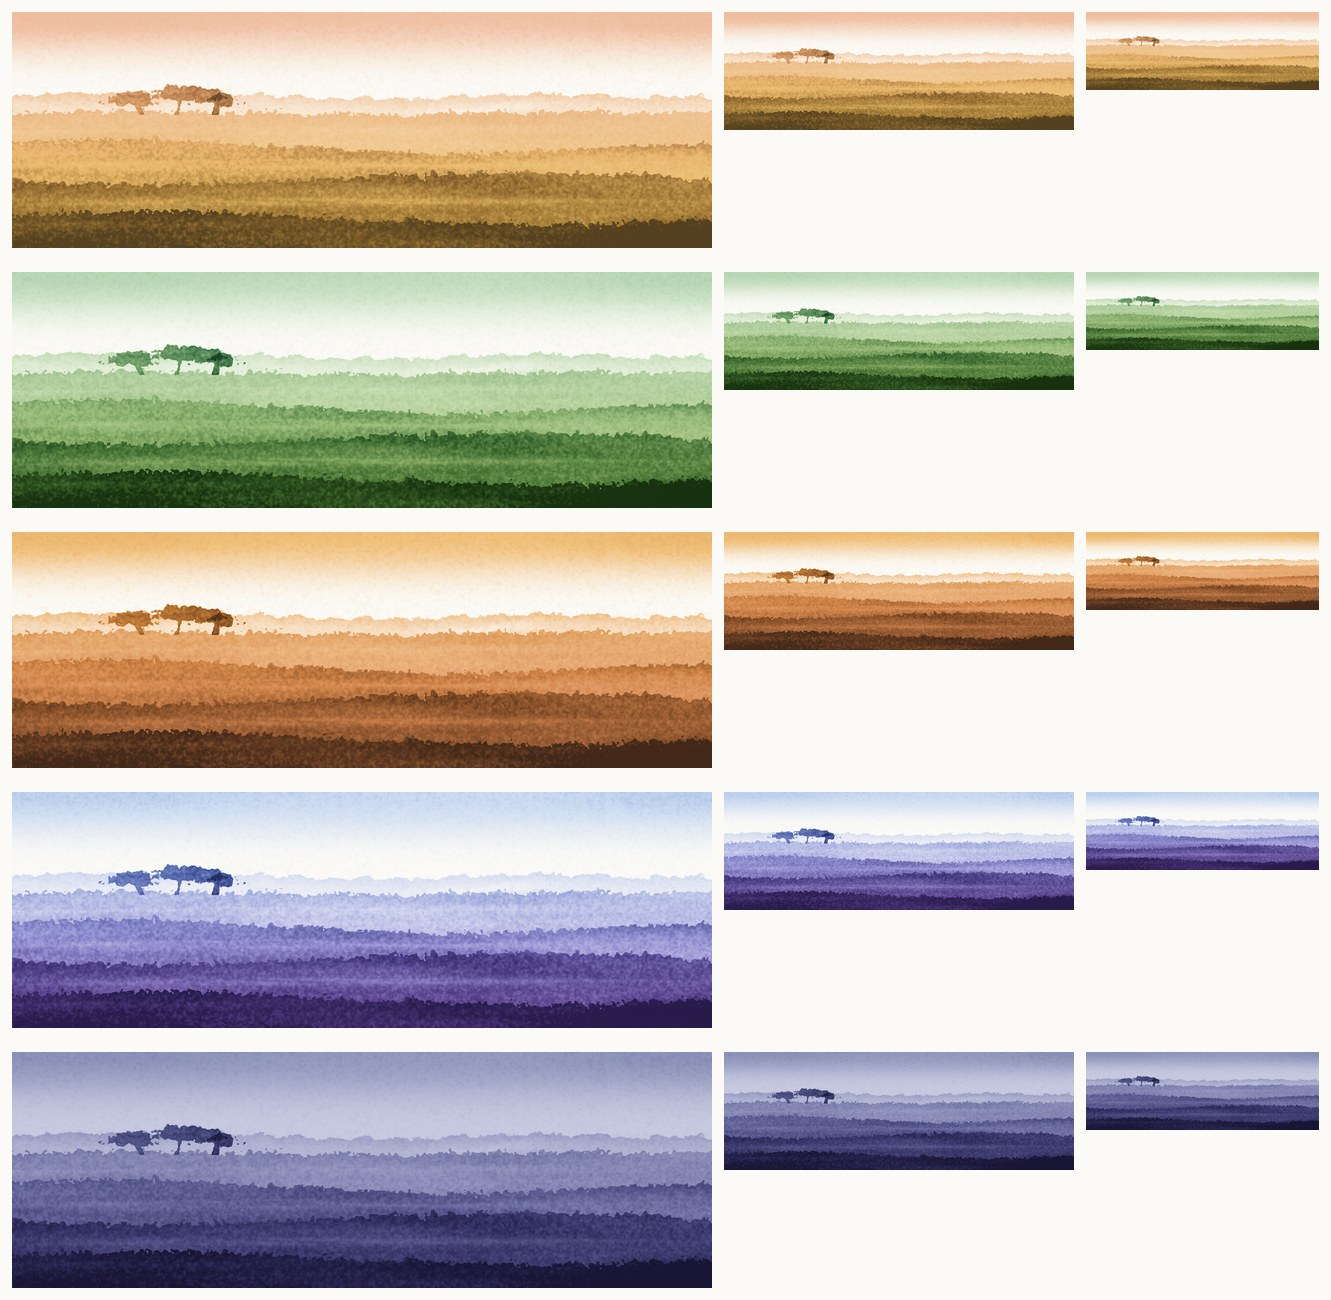
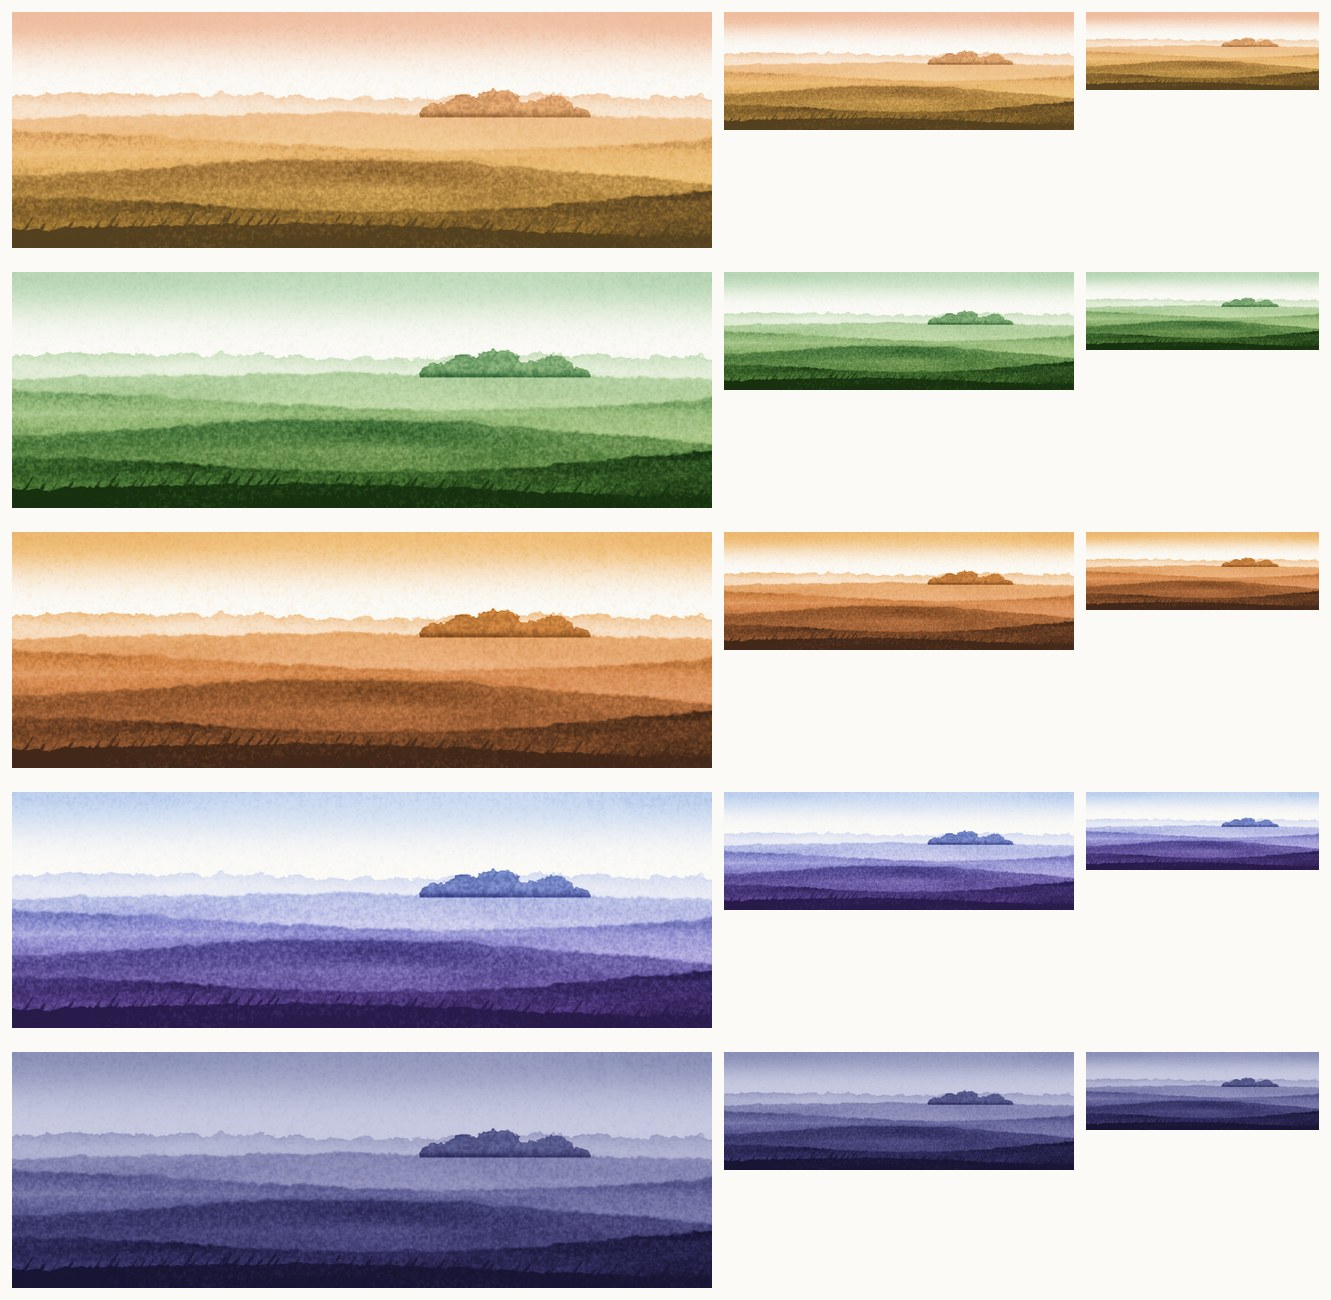
Meadow C repainted: crossing swells, blades on the near crest, a seated stand of trees
Claude-Session: https://claude.ai/code/session_012NdevCAvT4U8qS7nMJ64YM

diff --git a/tools/scenes/meadow.py b/tools/scenes/meadow.py
@@ -87,22 +87,70 @@ def variant_b() -> np.ndarray:
     return p.finish()
 
 
+def seg_field(x0, y0, x1, y1, w0, w1):
+    """Signed field in pixels for one tapered stroke from (x0, y0) to (x1, y1), normalised ends, widths in pixels."""
+    ax, ay, bx, by = x0 * W, y0 * H, x1 * W, y1 * H
+    dx, dy = bx - ax, by - ay; L2 = dx * dx + dy * dy
+    t = np.clip(((XX - ax) * dx + (YP - ay) * dy) / L2, 0, 1)
+    d = np.hypot(XX - (ax + t * dx), YP - (ay + t * dy))
+    return (w0 + (w1 - w0) * t) - d
+
+
+def copse(p, cx, base, width, height, density, seed):
+    """One stand of trees as a single low mass of uneven domes, wider than tall, seated on the ground.
+
+    No trunks show. A rounded mass on legs reads as an animal, which invariant 7 rules out.
+    """
+    f = np.full((H, W), -99.0)
+    for dx, top, rx in [(-0.44, 0.50, 0.16), (-0.27, 0.78, 0.20), (-0.04, 1.00, 0.24), (0.20, 0.70, 0.19), (0.36, 0.86, 0.17), (0.50, 0.42, 0.13)]:
+        ex, ey = (cx + dx * width) * W, base * H
+        rxp, ryp = rx * width * W, top * height * H
+        f = np.maximum(f, (1.0 - np.sqrt(((XX - ex) / rxp) ** 2 + ((YP - ey) / ryp) ** 2)) * min(rxp, ryp))
+    m = p.ragged(f, edge=1.6, rough=3.0, fine=2.5, tooth=1.4, seed=seed) * (f > -6) * smoothstep(base + 0.004, base - 0.004, YN)
+    p.wash(m, density, rim=0.22, rim_w=3, gran=0.075, flow=0.2, seed=seed + 5)
+    p.wash(m * smoothstep(base - height * 0.45, base, YN), 0.30, rim=0, gran=0.06, flow=0.2, seed=seed + 6)   # darker toward the ground
+
+
+def swell(p, pts, density, seed, fade, soft):
+    """A swell of grass whose upper edge melts into the wash behind it. soft is the edge softness in pixels."""
+    prof = p.profile(pts, wobble=0.002, wobble_sigma=14, seed=seed)
+    m = p.ragged(p.below(prof), edge=soft, rough=1.6, fine=1.6, tooth=0.9, seed=seed + 1)
+    d = density - fade[0] * smoothstep(fade[1], fade[2], YN)
+    p.wash(m, d, rim=0.0, gran=0.085, flow=0.26, flow_sigma=30, flow_aspect=6.0, seed=seed + 2)
+    return prof
+
+
+def blades(p, prof, n, seed, density=0.78):
+    """Short tapered blades of grass along one crest, all leaning at 56 degrees, uneven in length and spacing."""
+    rng = np.random.default_rng(seed); ang = np.radians(56.0)
+    f = np.full((H, W), -99.0)
+    for i in range(n):
+        x = (i + rng.random()) / n
+        if rng.random() < 0.22: continue                                   # gaps, so the crest is not a comb
+        px = int(np.clip(x * W, 0, W - 1)); y = prof[px] / H + 0.006
+        ln = (0.030 + 0.045 * rng.random()) * H
+        x1, y1 = x + ln * np.cos(ang) / W, y - ln * np.sin(ang) / H
+        f = np.maximum(f, seg_field(x, y, x1, y1, 0.0024 * W * (0.7 + 0.6 * rng.random()), 0.3))
+    m = p.ragged(f, edge=0.9, rough=1.0, fine=1.0, seed=seed + 1) * (f > -3)
+    p.wash(m, density, rim=0.0, gran=0.06, flow=0.1, seed=seed + 2)
+
+
 def variant_c() -> np.ndarray:
-    """Tall grass. A high horizon. The viewer stands in the meadow: swells of grass fill the card, with a small copse far off."""
+    """Tall grass. A high horizon. The viewer stands in the meadow: long swells of grass cross each other, with one copse far off."""
     p = Painting(paper_seed=29)
     above = np.ones_like(YN)
     sky(p, above, top=0.24, reach=0.34, seed=811)
     ridge(p, [(-0.05, .36), (.2, .345), (.45, .37), (.7, .35), (1.05, .365)], 0.18, above, 821, edge=2.4, fade=(0.08, 0.34, 0.44))
     haze(p, 0.405, 0.015, 0.026, 0.5, 826)
-    grass(p, [(-0.05, .43), (.25, .42), (.5, .435), (.78, .425), (1.05, .43)], 0.28, 831, fade=(0.08, 0.43, 0.56))
-    for i, (x, h, s) in enumerate([(.185, .085, .030), (.235, .115, .040), (.290, .075, .026)]):
-        crown_tree(p, x, 0.432, h, s, 0.56, 840 + 9 * i)
-    grass(p, [(-0.05, .56), (.2, .54), (.42, .575), (.66, .60), (.86, .57), (1.05, .555)], 0.40, 851, fade=(0.10, 0.56, 0.70))
-    swathes(p, 0.47, 0.54, 1, 856, strength=0.22)
-    grass(p, [(-0.05, .70), (.2, .73), (.45, .705), (.7, .68), (1.05, .715)], 0.54, 861, fade=(0.12, 0.70, 0.84))
-    swathes(p, 0.62, 0.68, 1, 866, strength=0.22)
-    grass(p, [(-0.05, .87), (.24, .845), (.5, .88), (.76, .90), (1.05, .86)], 0.82, 871, tooth=3.0)
-    swathes(p, 0.775, 0.83, 1, 876, strength=0.22)
+    # long shallow S-curves that cross: each swell is thin where it runs out and deep where it comes near
+    copse(p, 0.700, 0.446, 0.200, 0.115, 0.50, 841)            # painted before the first swell, so the grass hides the trunks: a mass on legs reads as an animal
+    swell(p, [(-0.05, .455), (.22, .437), (.48, .428), (.74, .437), (1.05, .452)], 0.26, 831, (0.08, 0.44, 0.58), 5.0)
+    swell(p, [(-0.05, .50), (.20, .525), (.42, .565), (.64, .585), (.84, .565), (1.05, .525)], 0.36, 851, (0.10, 0.54, 0.72), 6.0)
+    swell(p, [(-0.05, .70), (.18, .665), (.40, .625), (.60, .63), (.80, .675), (1.05, .735)], 0.48, 861, (0.12, 0.66, 0.84), 6.0)
+    swathes(p, 0.585, 0.62, 1, 866, strength=0.16)
+    swell(p, [(-0.05, .775), (.22, .805), (.46, .845), (.68, .835), (.86, .79), (1.05, .745)], 0.62, 871, (0.10, 0.80, 0.95), 5.0)
+    near = swell(p, [(-0.05, .93), (.20, .905), (.44, .895), (.70, .925), (1.05, .965)], 0.84, 881, (0.0, 0.9, 1.0), 2.2)
+    blades(p, near, 64, 891)
     return p.finish()
 
 
